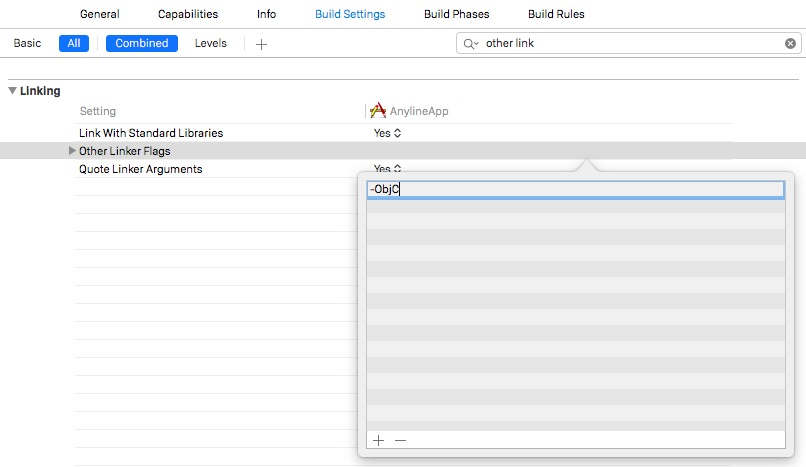
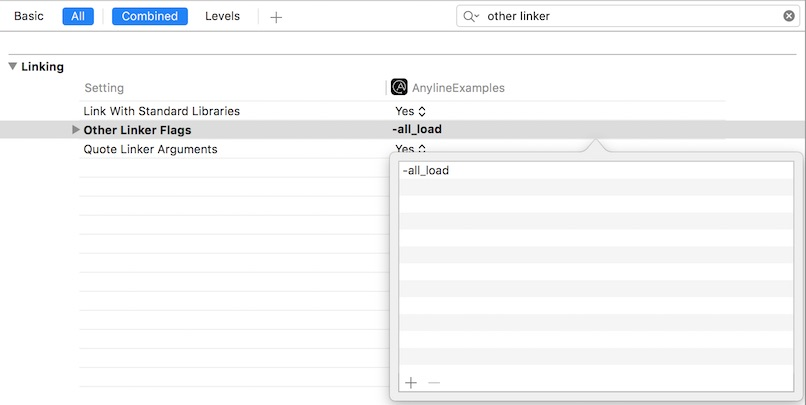
Site updated to 1f616c8

Changed region(s): [[0.0, 0.0, 1.0, 1.0]]

diff --git a/index.html b/index.html
@@ -125,6 +125,26 @@ This API contains a <a href="#getting-started">Quick Start Guide</a> for all sup
 <li>decent camera functionality (recommended: 720p and adequate auto focus)</li>
 </ul>
 
+<aside class="warning">
+<b>Android API Level 23 and the x86 architecture</b>
+<br/>
+At the moment, the x86 architecture of the Anyline SDK requires an Android targetSDKVersion < 23.
+<br/><br/>
+If you want to build your app against targetSDKVersion >= 23, you can exclude the x86 by adding the following to your build.gradle:
+<br/>
+<code style="white-space: pre; background: transparent;">
+android {
+....
+    defaultConfig {
+    ....
+        ndk {
+            abiFilters "armeabi-v7a"
+        }
+    }
+}
+</code>
+</aside>
+
 <h3 id="quick-start-guide">Quick Start Guide</h3>
 
 <h4 id="1-add-anylinesdk-as-dependency">1. Add AnylineSDK as dependency</h4>
@@ -142,7 +162,7 @@ This API contains a <a href="#getting-started">Quick Start Guide</a> for all sup
 
 <span class="n">dependencies</span> <span class="o">{</span>
     <span class="c1">//add the anyline sdk as dependency (maybe adapt version name)
-</span>    <span class="n">compile</span> <span class="s1">'io.anyline:anylinesdk:3.5.0@aar'</span>
+</span>    <span class="n">compile</span> <span class="s1">'io.anyline:anylinesdk:3.6.0@aar'</span>
     <span class="c1">//... your other dependencies
 </span><span class="o">}</span>
 </code></pre>
@@ -173,7 +193,7 @@ compile &lsquo;io.anyline:anylinesdk:3.3.0-epson@aar&rsquo;
 <span class="o">}</span>
 
 <span class="n">dependencies</span> <span class="o">{</span>
-    <span class="n">compile</span><span class="o">(</span><span class="nl">name:</span><span class="s1">'anylinesdk-3.5.0'</span><span class="o">,</span> <span class="nl">ext:</span><span class="s1">'aar'</span><span class="o">)</span>
+    <span class="n">compile</span><span class="o">(</span><span class="nl">name:</span><span class="s1">'anylinesdk-3.6.0'</span><span class="o">,</span> <span class="nl">ext:</span><span class="s1">'aar'</span><span class="o">)</span>
     <span class="c1">//... your other dependencies
 </span><span class="o">}</span>
 </code></pre>
@@ -352,7 +372,7 @@ The Epson BT2000 has no flash or vibration alarm integrated. Hence, all settings
 
 <h4 id="1-with-cocoapods">1. With Cocoapods</h4>
 
-<p>Simply add <em>pod &lsquo;Anyline&rsquo;, &rsquo;~&gt; 3.5&rsquo;</em> to your Podfile and run <em>pod install</em> or <em>pod update</em>.
+<p>Simply add <em>pod &lsquo;Anyline&rsquo;, &rsquo;~&gt; 3.6&rsquo;</em> to your Podfile and run <em>pod install</em> or <em>pod update</em>.
 (Please make sure you are on the latest version of CocoaPods)</p>
 
 <p>You&rsquo;re all done and can jump to point 3.1. </p>
@@ -381,8 +401,12 @@ The Epson BT2000 has no flash or vibration alarm integrated. Hence, all settings
 
 <h4 id="3-linker-flags">3. Linker Flags</h4>
 
+<aside class="notice">
+<b>This changed from -ObjC to -all_load in Aynline SDK version 3.6</b>
+</aside>
+
 <p>In your project inspector switch to the <em>Build Settings</em> tab  and search for <em>Other Linker Flags</em>. Select
-<em>Other - Other Linker Flags</em> and add <em>-ObjC</em>.
+<em>Other - Other Linker Flags</em> and add <em>-all_load</em>.
 This flag causes the linker to load every object file in the library that defines an Objective-C class or category.</p>
 
 <p><img alt="Linker Flags" src="images/LinkerFlags.jpg" /></p>
@@ -1945,7 +1969,7 @@ The feedback is used to present the detected symbols back to the user, which hel
 </tbody></table>
 
 <aside class="warning">
-For reasons of backward compatibility, this configuration correlates with the onTextOutlineDetected callback, as it can be seen in <a href="#anylineOcrExamples">AnylineOCR Examples</a>.<br/>If the callback returns true, this configuration is ignored, as it is expected that the feedback should not be drawn by the SDK.<br/>If the callback returns false, this configuration is used.
+For reasons of backward compatibility, this configuration correlates with the onTextOutlineDetected callback, as it can be seen in <a href="#anylineOcrExamples">AnylineOCR Examples</a>.<br/>If the callback returns true and no visual feedback was defined in the config, nothing will be drawn. If the callback returns true and a visualFeedback is defined, the feedback will be drawn anyways, since the feedback config was explicitly added. <br/>If the callback returns false and there is no visual feedback config, the standard RECT will be drawn. When there is a feedback config defined, the specified config will be drawn.
 </aside>
 
 <aside class="notice">
@@ -2095,6 +2119,7 @@ app:visual_feedback_animation_duration="75"
 <li>captureResolution is defined by preferred_preview_width and preferred_preview_height</li>
 <li>pictureResolution is defined by preferred_picture_width and preferred_picture_height</li>
 <li>colors contain alpha value, so there is no extra option for alpha</li>
+<li>color strings must include the &rsquo;#&rsquo; at the beginning. For example: <code class="prettyprint">app:cutout_stroke_color=&quot;#FFFFFFFF&quot;</code></li>
 </ul>
 
 <p><a name="iosConfig"> </a></p>
@@ -2325,11 +2350,22 @@ In the Community Edition of the SDK a watermark is displayed. Depending on the c
 
 <p>The example shows how to use the getWatermarkRect function to add a TextView with a top margin of 8dp under the watermark view</p>
 
-<aside class="notice">
-<b>Use functions postDelayed</b>
-<br/>
-Both functions can only be used after the ScanView is drawn, therefore use postDelayed otherwise the Rect will be null.
-</aside>
+<h6 id="how-to-know-when-the-rectangles-are-available">How to know when the rectangles are available?</h6>
+
+<p>Both, the position of the cutout, and the position of the watermark, can only be used after the ScanView is drawn. Otherwise the corresponding rects will not be known yet and be null.
+An OnGlobalLayoutListener can be used to add the custom views after the rects are available.</p>
+<pre class="highlight plaintext"><code>scanView.getViewTreeObserver().addOnGlobalLayoutListener(
+        new ViewTreeObserver.OnGlobalLayoutListener() {
+            @Override
+            public void onGlobalLayout() {
+
+                if (scanView.getCutoutRect() != null) {
+                    // layout your views around the cutout here
+                }
+
+            }
+        });
+</code></pre>
 
 <h3 id="ios">iOS</h3>
 <pre class="highlight objective_c"><code><span class="c1">// get the cutout rect from the scan view
@@ -2481,6 +2517,12 @@ for your use-case. This script can then be set as a parameter to this module, so
 <td>The minimum sharpness required to further process an image with a value between 0 and 100 (0 to turn off sharpness detection)</td>
 <td>It is used to avoid processing of blurry images which are unlikley to return a result in order to avoid the time consuming ocr step. It is recommended to set an initial sharpness of 50 and gradually increase the value to a threshold where you get satisfying results. This parameter is in alpha stage.</td>
 </tr>
+<tr>
+<td>removeWhitespaces</td>
+<td>boolean</td>
+<td>If set to <code class="prettyprint">true</code>, whitespaces will be removed in the returned result. Default is <code class="prettyprint">false</code></td>
+<td>If you want the result not to contain any whitespaces, as in an IBAN for example, set this parameter to true</td>
+</tr>
 </tbody></table>
 
 <h4 id="settings-grid-mode-only">Settings GRID mode only</h4>
@@ -2524,6 +2566,10 @@ for your use-case. This script can then be set as a parameter to this module, so
 <td></td>
 </tr>
 </tbody></table>
+
+<aside class="notice">
+<code class="prettyprint">removeWhitespace</code> is set to true in GRID mode. This cannot be changed.
+</aside>
 
 <p><a name="OcrConig_customScript"> </a></p>
 
@@ -2615,6 +2661,8 @@ Important! If you have multiple traineddata files, this method must be called fo
 <span class="n">anylineOcrConfig</span><span class="o">.</span><span class="na">setValidationRegex</span><span class="o">(</span><span class="s">"^[A-Z]{2}([0-9A-Z]\\s*){13,32}$"</span><span class="o">);</span>
 <span class="c1">// removes small contours (helpful in this case as no letters with small artifacts are allowed, like iöäü)</span>
 <span class="n">anylineOcrConfig</span><span class="o">.</span><span class="na">setRemoveSmallContours</span><span class="o">(</span><span class="kc">true</span><span class="o">);</span>
+<span class="c1">// removes possible whitespaces in the result</span>
+<span class="n">anylineOcrConfig</span><span class="o">.</span><span class="na">setRemoveWhitespaces</span><span class="o">(</span><span class="kc">true</span><span class="o">);</span>
 
 <span class="c1">// set the ocr config</span>
 <span class="n">scanView</span><span class="o">.</span><span class="na">setAnylineOcrConfig</span><span class="o">(</span><span class="n">anylineOcrConfig</span><span class="o">);</span>
@@ -2779,6 +2827,7 @@ It is possible to turn off that feature by calling <em>setReportingEnabled(fa
     <span class="n">config</span><span class="p">.</span><span class="n">minConfidence</span> <span class="o">=</span> <span class="mi">65</span><span class="p">;</span>
     <span class="n">config</span><span class="p">.</span><span class="n">validationRegex</span> <span class="o">=</span> <span class="s">@"^ISBN</span><span class="se">\\</span><span class="s">s*((978|979){1}-?</span><span class="se">\\</span><span class="s">s*)*[0-9]{1,5}-?</span><span class="se">\\</span><span class="s">s*[0-9]{2,7}-?</span><span class="se">\\</span><span class="s">s*[0-9]{2,7}-?</span><span class="se">\\</span><span class="s">s*[0-9X]$"</span><span class="p">;</span>
     <span class="n">config</span><span class="p">.</span><span class="n">removeSmallContours</span> <span class="o">=</span> <span class="nb">YES</span><span class="p">;</span>
+    <span class="n">config</span><span class="p">.</span><span class="n">removeWhitespaces</span> <span class="o">=</span> <span class="nb">YES</span><span class="p">;</span>
     <span class="n">config</span><span class="p">.</span><span class="n">scanMode</span> <span class="o">=</span> <span class="n">ALLine</span><span class="p">;</span>
 
     <span class="n">NSError</span> <span class="o">*</span><span class="n">error</span> <span class="o">=</span> <span class="nb">nil</span><span class="p">;</span>
@@ -4198,6 +4247,50 @@ The additional configuration fields is:</p>
 <p>The AnylineDocumentModuleView can simply be added as a subview.</p>
 
 <p>For custom configuration (e.g. cutout, flash, feedback on successful scan, etc.) you can either use a json-file or configure it by accessing the properties of the module. If you need more detailed information about all available config items see <a href="#anyline-config">Anyline Config</a>.</p>
+
+<h3 id="cordova-plugin">Cordova Plugin</h3>
+
+<p>This is in ALPHA stage and usage may change in the future.</p>
+
+<h4 id="example">Example</h4>
+<pre class="highlight plaintext"><code>cordova.exec(onResult, onError, "AnylineSDK", "DOCUMENT",
+    [
+        "YOUR_LICENSE_KEY",
+        {
+            "captureResolution":"720p",
+            "pictureResolution":"1080p",
+            "cutout": {
+                "style": "rect",
+                "maxWidthPercent": "100%",
+                "maxHeightPercent": "100%",
+                "width": 720,
+                "ratioFromSize": {
+                    "width": 10,
+                    "height": 15
+                },
+                "alignment": "center",
+                "strokeWidth": 2,
+                "cornerRadius": 0,
+                "strokeColor": "00000000"
+            },
+            "flash": {
+                "mode": "manual",
+                "alignment": "bottom_left",
+                "offset": {
+                    "x": 10,
+                    "y": 0
+                }
+            },
+            "beepOnResult": true,
+            "vibrateOnResult": true,
+            "blinkAnimationOnResult": true,
+            "cancelOnResult": true
+        }
+    ]
+);
+</code></pre>
+
+<p>The result returned in onResult contains an attribute &ldquo;imagePath&rdquo; that holds the path to the cropped and transformed image.</p>
 
           <p><a name="ordercodeModule"> </a></p>
 
